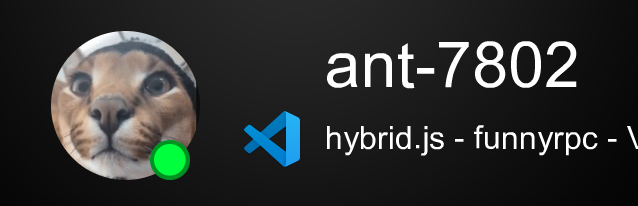
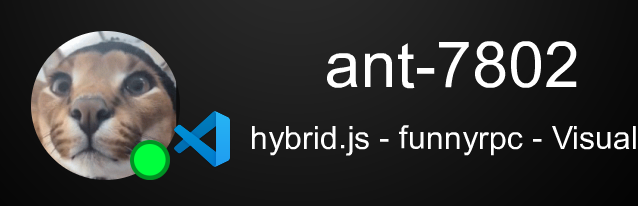
fixing positioning

Changed region(s): [[0.0298, 0.1456, 1.0, 0.8738]]

diff --git a/hybrid.js b/hybrid.js
@@ -21,11 +21,11 @@ async function main() {
         const icon = (await Jimp.read(Buffer.from(status.icon.split(",")[1],"base64url"))).resize(64,64);    
         Jimp.read("background.png", async (err, background) => {
             if (err) throw err;
-            await background.composite(profile, 50, 30);
+            await background.composite(profile, 30, 30);
             await background.print(fontsans64, 325, 30, `${login}`);
-            await background.print(fontsans32, 325, 120, status.title);
-            await background.composite(greencircle,150,140);
-            await background.composite(icon,240,107);
+            await background.print(fontsans32, 250, 120, status.title);
+            await background.composite(greencircle,130,140);
+            await background.composite(icon,177,107);
             await background.write("img.png");
         });
     }, 10000);
